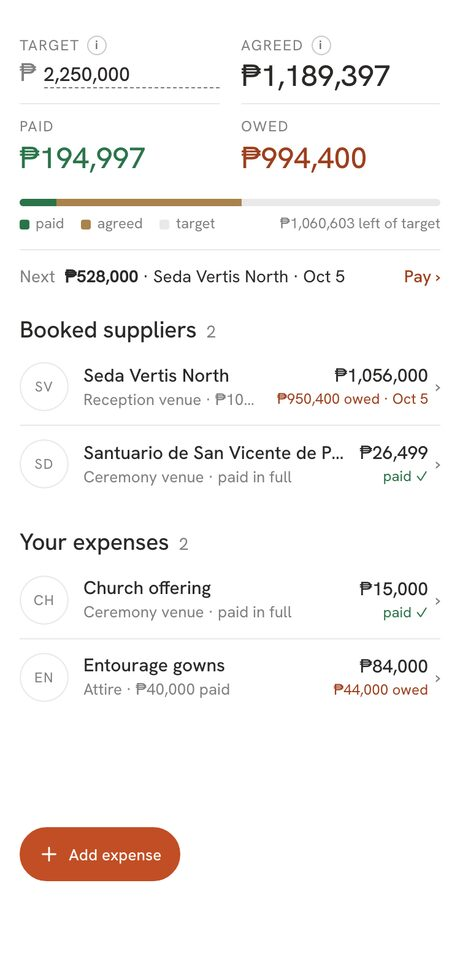
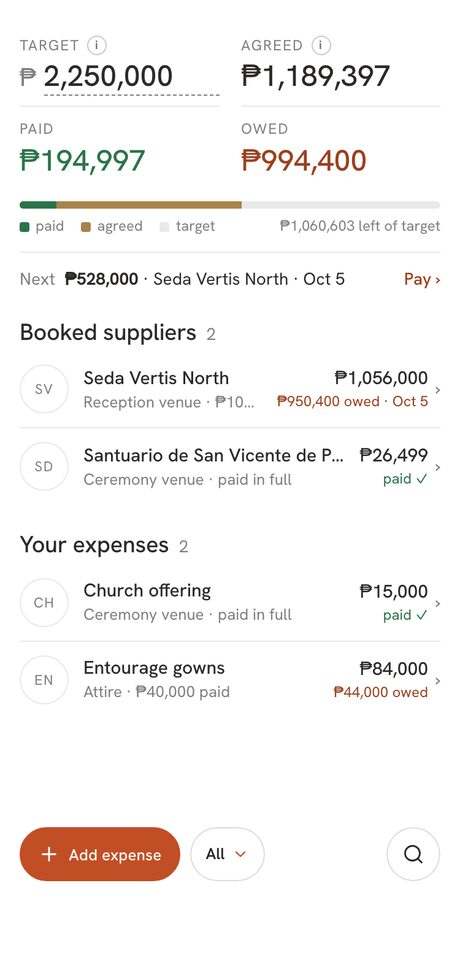
feat(features): Budget page names the B3 filter + search; budget capture retaken on main with the thumb row

diff --git a/apps/web/lib/feature-pages/plan-a.ts b/apps/web/lib/feature-pages/plan-a.ts
@@ -37,12 +37,12 @@ export const PLAN_A_FEATURES: readonly FeaturePageEntry[] = [
       en: [
         'Type your target in pesos. A meter shows paid and agreed against it, and how much is left.',
         'Book a supplier and they join the list. Record each payment with the amount, date and how you paid; add expenses with no supplier too.',
-        'The Next line names the next payment and its date, with Pay beside it. Download the budget as a spreadsheet or print it.',
+        'The Next line names the next payment and its date, with Pay beside it. Filter to what is owing or paid, search, and download or print the budget.',
       ],
       tl: [
         'I-type ang target mo sa piso. Ipinapakita ng meter ang bayad at agreed laban dito, at kung magkano pa ang natitira.',
         'Mag-book ng supplier at papasok sila sa listahan. I-record ang bawat bayad kasama ang halaga, petsa at paraan; puwede ring magdagdag ng gastos na walang supplier.',
-        'Sinasabi ng Next line ang susunod na bayarin at petsa nito, may Pay sa tabi. I-download ang budget bilang spreadsheet o i-print ito.',
+        'Sinasabi ng Next line ang susunod na bayarin at petsa nito, may Pay sa tabi. I-filter ang may utang pa o bayad na, maghanap, at i-download o i-print ang budget.',
       ],
     },
     different: {
@@ -90,8 +90,8 @@ export const PLAN_A_FEATURES: readonly FeaturePageEntry[] = [
       {
         src: '/feature-shots/budget-0.jpg',
         alt: {
-          en: 'The Budget screen on a phone: Target, Agreed, Paid and Owed, a meter, the next payment, booked suppliers and your own expenses',
-          tl: 'Ang Budget screen sa telepono: Target, Agreed, Paid at Owed, isang meter, ang susunod na bayarin, ang na-book na supplier at sariling gastos',
+          en: 'The Budget screen on a phone: Target, Agreed, Paid and Owed, a meter, the next payment, booked suppliers, your own expenses, and Add expense with the All filter and search',
+          tl: 'Ang Budget screen sa telepono: Target, Agreed, Paid at Owed, isang meter, ang susunod na bayarin, ang na-book na supplier, sariling gastos, at Add expense kasama ang All filter at search',
         },
       },
     ],
